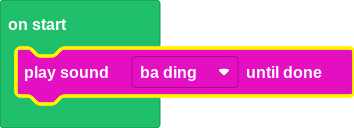
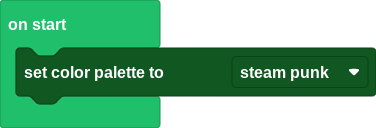
Update pxt.json, main.blocks, main.ts, images.g.jres, images.g.ts

diff --git a/images.g.ts b/images.g.ts
@@ -1,0 +1,56 @@
+// Auto-generated code. Do not edit.
+namespace myImages {
+
+    helpers._registerFactory("image", function(name: string) {
+        switch(helpers.stringTrim(name)) {
+            case "image1":
+            case "myImage":return img`
+. . . . . . . . . . . . . . . . 
+. . . . . . . . . . . . . . . . 
+. . . . . . . . . . . . . . . . 
+. . . . . . . . . . . . . . . . 
+. . . . . . . . . . . . . . . . 
+. . . . . . . . . . . . . . . . 
+. . . . . . . . . . . . . . . . 
+. . . . . . . . . . . . . . . . 
+. b . . . . . . . . . . . . . . 
+. . . . . . . . . . . . . . . . 
+. . . . . . . . . . . . . . . . 
+. . . . . . . . . . . . . . . . 
+. . . . . . . . . . . . . . . . 
+. . . . . . . . . . . . . . . . 
+. . . . . . . . . . . . . . . . 
+. . . . . . . . . . . . . . . . 
+`;
+            case "image2":
+            case "myImage0":return img`
+. . . . . . . . . . . . . . . . 
+. . . . . . . . . . . . . . . . 
+. . . . . . . . . . . . . . . . 
+. . . . . . . . . . . . . . . . 
+. . . . . . . . . . . . . . . . 
+. . . . . . . . . . . . . . . . 
+. . . . . . . . . . . . . . . . 
+. . . . . . . . . . . . . . . . 
+. . . . . . . . . . . . . . . . 
+. . . . . . . . . . . . . . . . 
+. . . . . . . . . . . . . . . . 
+. . . . . . . . . . . . . . . . 
+. . . . . . . . . . . . . . . . 
+. . . . . . . . . . . . . . . . 
+. . . . . . . . . . . . . . . . 
+. . . . . . . . . . . . . . . . 
+`;
+        }
+        return null;
+    })
+
+    helpers._registerFactory("animation", function(name: string) {
+        switch(helpers.stringTrim(name)) {
+
+        }
+        return null;
+    })
+
+}
+// Auto-generated code. Do not edit.

diff --git a/main.ts b/main.ts
@@ -1,1 +1,3 @@
-music.baDing.playUntilDone()
+color.setPalette(
+color.SteamPunk
+)
